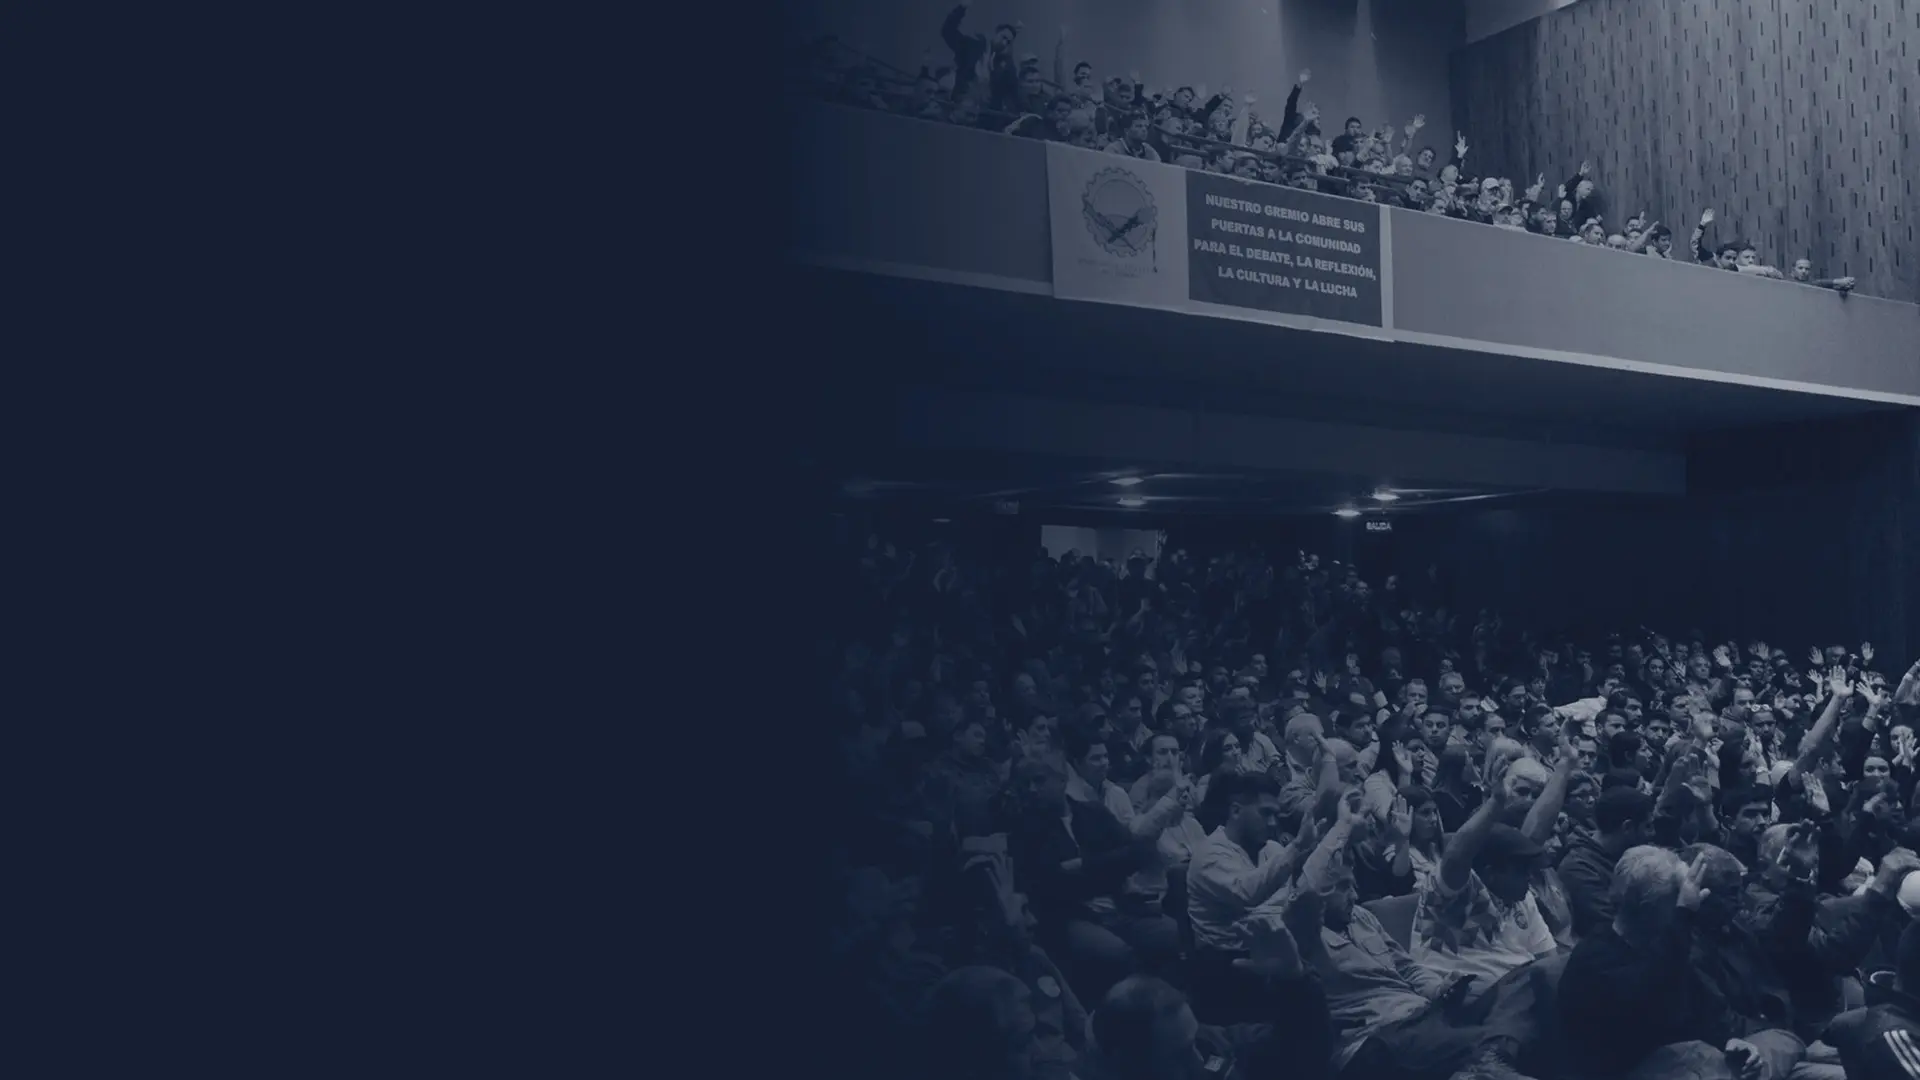
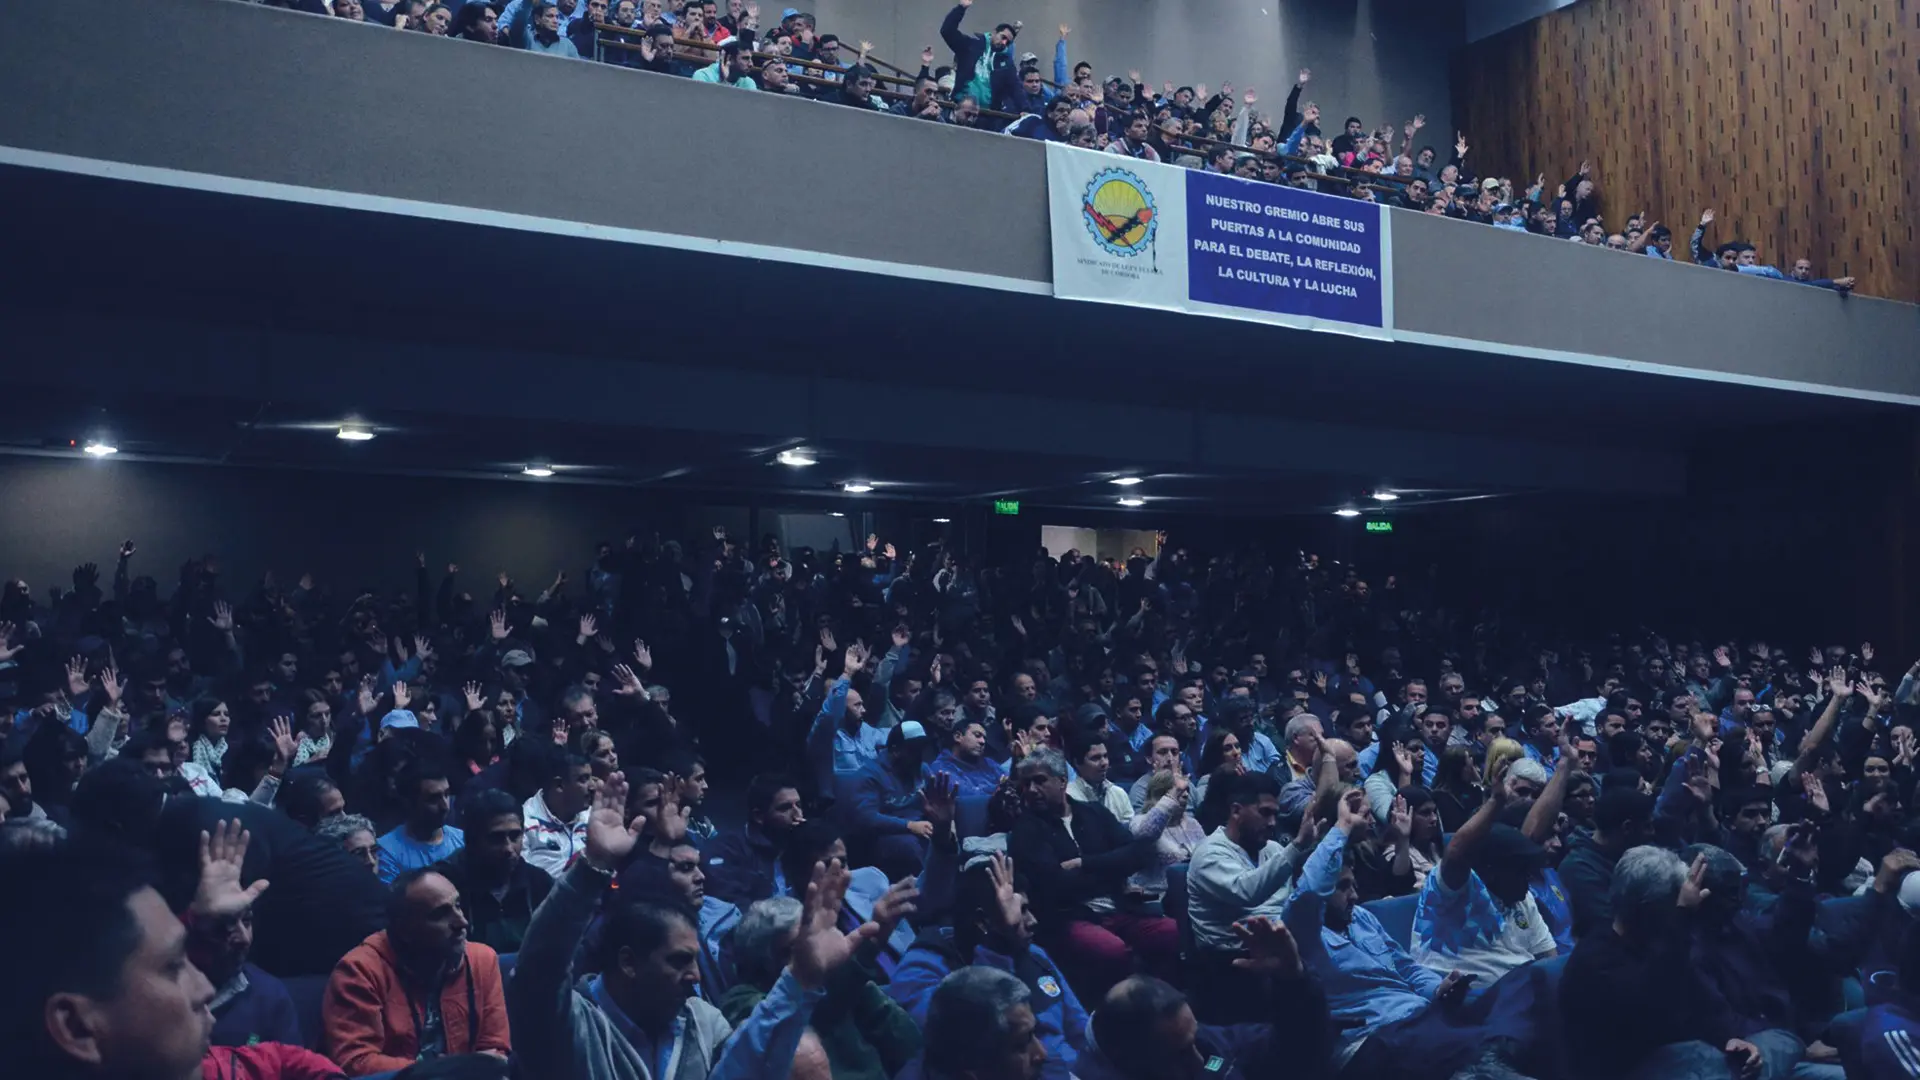
cambios imagenes home y atividades

diff --git a/src/views/VidaInstitucional/VidaInstitucional.jsx b/src/views/VidaInstitucional/VidaInstitucional.jsx
@@ -11,9 +11,9 @@ import BannerPortadas from '../../components/reutilizables//bannerPortadas/Banne
 import './VidaInstitucional.css';
 
 // import de imagenes 
-import imgPortada from '../../assets/images/vidaInstitucional/bannerPortada.jpg';
+import imgPortada from '../../assets/images/portadaProvi.webp';
 import ConsejoDirectivo from '../../assets/images/vidaInstitucional/ConsejoDirectivo.jpg'
-import pngParaCol from '../../assets/images/vidaInstitucional/pngParaCol.png';
+import pngParaCol from '../../assets/images/vidaInstitucional/placeHolder.webp';
 import imgPersona1 from '../../assets/images/vidaInstitucional/imgPersona1.jpg';
 import imgPersona2 from '../../assets/images/vidaInstitucional/imgPersona2.jpg';
 import imgPersona3 from '../../assets/images/vidaInstitucional/imgPersona3.jpg';
@@ -118,7 +118,7 @@ function VidaInstitucional() {
         image="https://tusitio.com/img/home-og-image.jpg"
       />
 
-      <BannerPortadas imagen={imgPortada} titulo="Vida institucional" />
+      <BannerPortadas imagen={imgPortada} titulo="" />
 
       <section className="vidaInstitucional container py-5">
 
@@ -294,53 +294,7 @@ function VidaInstitucional() {
           ))}
         </div>
 
-        {/* Banners navegables como cards */}
-        <div className="row">
-          {/* Card 1 - Cuerpo General de Delegados */}
-          <div className="col-md-4 mb-4">
-            <div
-              className="card h-100 text-center shadow-sm"
-              onClick={() => navigate("/cuerpo-general-delegados")}
-              style={{ cursor: "pointer" }}
-            >
-              <div className="card-body">
-                <i className="bi bi-people-fill fs-1 mb-3 text-primary"></i> {/* 👥 */}
-                <h5 className="card-title">Cuerpo General de Delegados</h5>
-                <p className="card-text">Accedé a la sección del cuerpo general.</p>
-              </div>
-            </div>
-          </div>
-
-          {/* Card 2 - Asamblea General */}
-          <div className="col-md-4 mb-4">
-            <div
-              className="card h-100 text-center shadow-sm"
-              onClick={() => navigate("/asamblea-general")}
-              style={{ cursor: "pointer" }}
-            >
-              <div className="card-body">
-                <i className="bi bi-megaphone-fill fs-1 mb-3 text-danger"></i> {/* 📣 */}
-                <h5 className="card-title">Asamblea General</h5>
-                <p className="card-text">Información sobre la Asamblea General.</p>
-              </div>
-            </div>
-          </div>
-
-          {/* Card 3 - Secretaría */}
-          <div className="col-md-4 mb-4">
-            <div
-              className="card h-100 text-center shadow-sm"
-              onClick={() => navigate("/secretarias")}
-              style={{ cursor: "pointer" }}
-            >
-              <div className="card-body">
-                <i className="bi bi-person-vcard-fill fs-1 mb-3 text-success"></i> {/* 🪪 */}
-                <h5 className="card-title">Secretaría</h5>
-                <p className="card-text">Conocé el trabajo de la secretaría.</p>
-              </div>
-            </div>
-          </div>
-        </div>
+       
 
       </section>
 

diff --git a/src/components/Home/propuestas/ActividadesBannersSW.jsx b/src/components/Home/propuestas/ActividadesBannersSW.jsx
@@ -9,20 +9,17 @@ import "swiper/css/pagination";
 import "./ActividadesBannersSW.css";
 
 // Importá tus imágenes (las mismas que tenías)
-import imgActRecreativas from "../../../assets/images/home/bannersActividades/imgActRecreativas.jpg";
-import imgArteMarcial from "../../../assets/images/home/bannersActividades/imgArteMarcial.jpg";
-import imgBienestarSalud from "../../../assets/images/home/bannersActividades/imgBienestarSalud.jpg";
-import imgCamaderia from "../../../assets/images/home/bannersActividades/imgCamaderia.jpg";
-import imgComunidad from "../../../assets/images/home/bannersActividades/imgComunidad.jpg";
-import imgNaturaleza from "../../../assets/images/home/bannersActividades/imgNaturaleza.jpg";
-import imgTrakking from "../../../assets/images/home/bannersActividades/imgTrakking.jpg";
+import imgArteMarcial from "../../../assets/images/home/bannersActividades/imgArteMarcial.webp";
+import imgFutbol from "../../../assets/images/home/bannersActividades/imgFutbol.webp";
+import imgPesca from "../../../assets/images/home/bannersActividades/imgPesca.webp";
+import imgTrakking from "../../../assets/images/home/bannersActividades/imgTrakking.webp";
 
 
 const actividades = [
-  { img: imgBienestarSalud, titulo: "Programa de Trekking y Excursiones", bajada: "Recorré y conocé distintos puntos y parajes de la bellísima geografía cordobesa." },
-  { img: imgNaturaleza, titulo: "Concurso de Pesca", bajada: "Participá de la Copa Anual de pescadores organizada por Luz y Fuerza." },
+  { img: imgTrakking, titulo: "Programa de Trekking y Excursiones", bajada: "Recorré y conocé distintos puntos y parajes de la bellísima geografía cordobesa." },
+  { img: imgPesca, titulo: "Concurso de Pesca", bajada: "Participá de la Copa Anual de pescadores organizada por Luz y Fuerza." },
   { img: imgArteMarcial, titulo: "Karate Tradicional y Deportivo", bajada: "Sumate a practicar este arte marcial para afianzar la autoconfianza y la seguridad." },
-  { img: imgTrakking, titulo: "Campeonato de fútbol “Confraternidad”", bajada: "Vos también podes participar en el tradicional campeonato de fútbol lucifuercista." },
+  { img: imgFutbol, titulo: "Campeonato de fútbol “Confraternidad”", bajada: "Vos también podes participar en el tradicional campeonato de fútbol lucifuercista." },
 ];
 
 export default function ActividadesBannersSW() {

diff --git a/src/Router.jsx b/src/Router.jsx
@@ -6,7 +6,6 @@ import Home from './views/Home/Home';
 import QuienesSomos from './views/QuienesSomos/QuienesSomos';
 import Historia from './views/Historia/Historia';
 import ConvenioColectivo from './views/ConvenioColectivo/ConvenioColectivo';
-import Novedades from './views/Novedades/Novedades';
 import NuestraLucha from './views/NuestraLucha/NuestraLucha';
 import VidaInstitucional from './views/VidaInstitucional/VidaInstitucional';
 import AsambleaGeneral from './views/VidaInstitucional/AsambleaGeneral/AsambleaGeneral';
@@ -36,7 +35,6 @@ function Router() {
           <Route path="/historia" element={<Historia />} />
           <Route path="/quienes-somos" element={<QuienesSomos />} />
           <Route path="/convenio-colectivo" element={<ConvenioColectivo />} />
-          <Route path="/novedades" element={<Novedades />} />
           <Route path="/nuestra-lucha" element={<NuestraLucha />} />
           <Route path="/defendamos-epec" element={<DefendamosEpec />} />
           <Route path="/autoridades" element={<VidaInstitucional />} />

diff --git a/src/views/Home/Home.jsx b/src/views/Home/Home.jsx
@@ -11,9 +11,9 @@ import LuchaSectionH2 from '../../components/Home/home2/LuchaSectionH2';
 import BannerElectrumh2 from '../../components/Home/home2/bannerElectrum/BannerElectrumh2';
 
 // import imagenes 
-import imgPortada1 from '../../assets/images/home/swiperHeroHome/imgSliderHome1.jpg';
-import imgPortada2 from '../../assets/images/home/swiperHeroHome/imgSliderHome2.jpg';
-import imgPortada3 from '../../assets/images/home/swiperHeroHome/imgSliderHome3.jpg';
+import imgPortada1 from '../../assets/images/home/swiperHeroHome/imgSliderHome1.webp';
+import imgPortada2 from '../../assets/images/home/swiperHeroHome/imgSliderHome2.webp';
+import imgPortada3 from '../../assets/images/home/swiperHeroHome/imgSliderHome3.webp';
 import imgPortada4 from '../../assets/images/home/swiperHeroHome/imgSliderHome4.webp';
 import imgPortada5 from '../../assets/images/home/swiperHeroHome/imgSliderHome5.webp';
 

diff --git a/src/views/ConvenioColectivo/ConvenioColectivo.jsx b/src/views/ConvenioColectivo/ConvenioColectivo.jsx
@@ -3,7 +3,7 @@ import BannerPortadas from '../../components/reutilizables/bannerPortadas/Banner
 import Typewriter from 'typewriter-effect';
 
 // Imágenes
-import imgPortada from '../../assets/images/convenioColectivo/portada.jpg';
+import imgPortada from '../../assets/images/portadaProvi.webp';
 import convenioPersola from '../../assets/images/convenioColectivo/convenioPersola.jpg';
 import img1 from '../../assets/images/convenioColectivo/img1.jpg'
 import img2 from '../../assets/images/convenioColectivo/img2.jpg'
@@ -21,7 +21,7 @@ function ConvenioColectivo() {
         image="https://tusitio.com/img/home-og-image.jpg"
       />
 
-      <BannerPortadas imagen={imgPortada} title="Convenio colectivo" />
+      <BannerPortadas imagen={imgPortada} title="" />
 
       {/* Introducción */}
       <section className="container py-5">

diff --git a/src/views/Contacto/Contacto.jsx b/src/views/Contacto/Contacto.jsx
@@ -4,7 +4,7 @@ import SEO from '../../seo/SEO';
 import { Container, Row, Col } from 'react-bootstrap';
 import ContactForm from '../../components/reutilizables/formularioCont/ContactForm';
 import BannerPortadas from '../../components/reutilizables/bannerPortadas/BannerPortadas';
-import portadaImg from '../../assets/images/vidaInstitucional/bannerPortada.jpg';
+import portadaImg from '../../assets/images/portadaProvi.webp';
 
 function Contacto() {
     return (
@@ -16,7 +16,7 @@ function Contacto() {
                 image="https://tusitio.com/img/home-og-image.jpg"
             />
 
-            <BannerPortadas imagen={portadaImg} titulo="Contactanos" />
+            <BannerPortadas imagen={portadaImg} titulo="" />
 
             <section className="contacto-section py-5">
                 <Container>

diff --git a/src/components/Home/home2/bannerElectrum/BannerElectrumh2.jsx b/src/components/Home/home2/bannerElectrum/BannerElectrumh2.jsx
@@ -6,8 +6,8 @@ function BannerElectrum() {
     return (
         <>
             {/* Módulo 2: Banner Electrum */}
-            <section className="banner-electrum container text-white text-center">
-                <Container className='py-4'>
+            <section className="banner-electrum rounded-3 container text-white text-center">
+                <Container className='py-4 rounded-3'>
                     <h2 className="mb-3">Electrum, el periódico de Luz y Fuerza</h2>
                     <p className="mb-4">Consultá las ediciones de Electrum Digital y descargarlas desde nuestra web</p>
                     <a href="https://luzyfuerzacordobaelectrum.com.ar/electrum-digital/" className="px-4 mt-3 estiloBotonClaroH2 py-1">Ver Electrum</a>

diff --git a/src/views/Actividades/Actividades.jsx b/src/views/Actividades/Actividades.jsx
@@ -18,7 +18,7 @@ import { categoriasUI, trekking, pesca, karate, futbol } from "./data/actividade
 
 // Estilos y portada
 import "./Actividades.css";
-import portadaImg from "../../assets/images/vidaInstitucional/bannerPortada.jpg";
+import portadaImg from "../../assets/images/portadaProvi.webp";
 
 export default function Actividades() {
   const [q, setQ] = useState("");
@@ -46,7 +46,7 @@ export default function Actividades() {
         url="https://tu-dominio/actividades"
         image="https://tusitio.com/img/home-og-image.jpg"
       />
-      <BannerPortadas imagen={portadaImg} titulo="Actividades" />
+      <BannerPortadas imagen={portadaImg} titulo="" />
 
       <div className="container py-4">
         <FilterBar

diff --git a/src/views/VidaInstitucional/CuerposOrganicos/CuerposOrganicos.jsx b/src/views/VidaInstitucional/CuerposOrganicos/CuerposOrganicos.jsx
@@ -3,12 +3,12 @@ import CuerpoDelegados from '../../../views/VidaInstitucional/CuerpoDelegados/Cu
 import BannerPortadas from '../../../components/reutilizables/bannerPortadas/BannerPortadas';
 import AsambleaGeneral from '../AsambleaGeneral/AsambleaGeneral';
 // Importa imagenes
-import imgPortada from '../../../assets/images/vidaInstitucional/bannerPortada.jpg';
+import imgPortada from '../../../assets/images/portadaProvi.webp';
 
 function CuerposOrganicos() {
   return (
    <>
-   <BannerPortadas imagen={imgPortada} titulo="Cuerpos Organicos" />
+   <BannerPortadas imagen={imgPortada} titulo="" />
    <CuerpoDelegados />
    <AsambleaGeneral />
    </>

diff --git a/src/views/VidaInstitucional/Secretaria/Secretaria.jsx b/src/views/VidaInstitucional/Secretaria/Secretaria.jsx
@@ -4,7 +4,7 @@ import { Link } from 'react-router-dom';
 import './Secretaria.css';
 
 import BannerPortadas from '../../../components/reutilizables/bannerPortadas/BannerPortadas';
-import imgPortada from '../../../assets/images/vidaInstitucional/bannerPortada.jpg';
+import imgPortada from '../../../assets/images/portadaProvi.webp';
 
 const secretariasData = [
   {
@@ -48,7 +48,7 @@ const secretariasData = [
 function Secretarias() {
   return (
     <>
-      <BannerPortadas imagen={imgPortada} titulo="Secretarías" />
+      <BannerPortadas imagen={imgPortada} titulo="" />
 
       <section className="secretaria-seccion">
         <Container>

diff --git a/src/views/NuestraLucha/defendamosEpec/DefendamosEpec.jsx b/src/views/NuestraLucha/defendamosEpec/DefendamosEpec.jsx
@@ -7,7 +7,7 @@ import BannerGif from '../../../components/reutilizables/bannerEpecNoEsAnonima/B
 
 // import imagenes 
 import portadaImg from '../../../assets/images/vidaInstitucional/bannerPortada.jpg';
-import img1 from '../../../assets/images/nuestraLucha/pngParaCol.png';
+import img1 from '../../../assets/images/portadaProvi.webp';
 
 import './DefendamosEpec.css';
 

diff --git a/src/components/Actividades/FilterBar.jsx b/src/components/Actividades/FilterBar.jsx
@@ -34,7 +34,7 @@ export default function FilterBar({ categorias = [], onSearch, onJump }) {
           {categorias.map(c => (
             <button
               key={c.id}
-              className="estiloBoton"
+              className="estiloBotonH2"
               onClick={() => onJump?.(c.anchor)}
               aria-label={c.label}
               type="button"
